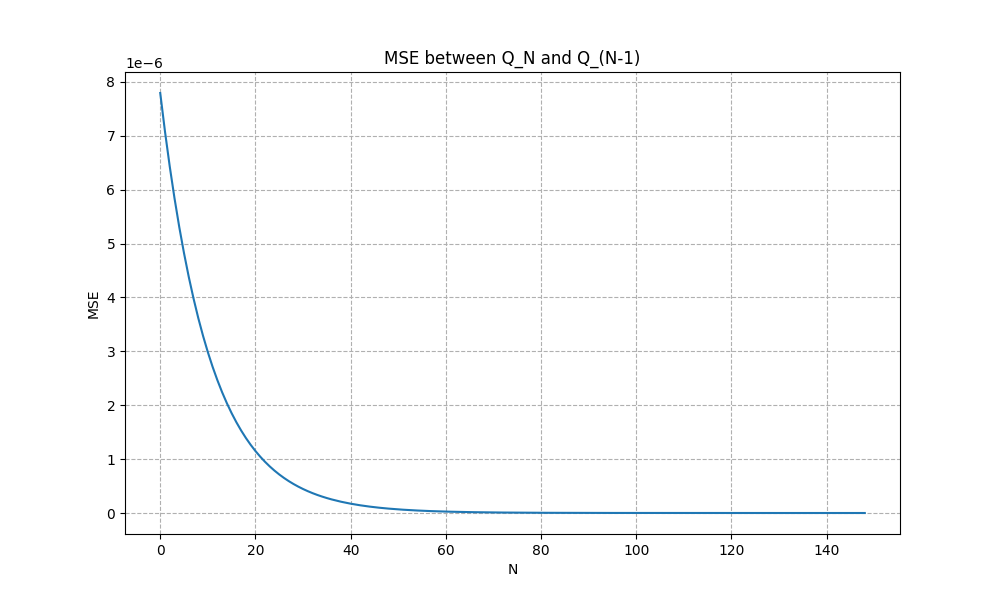
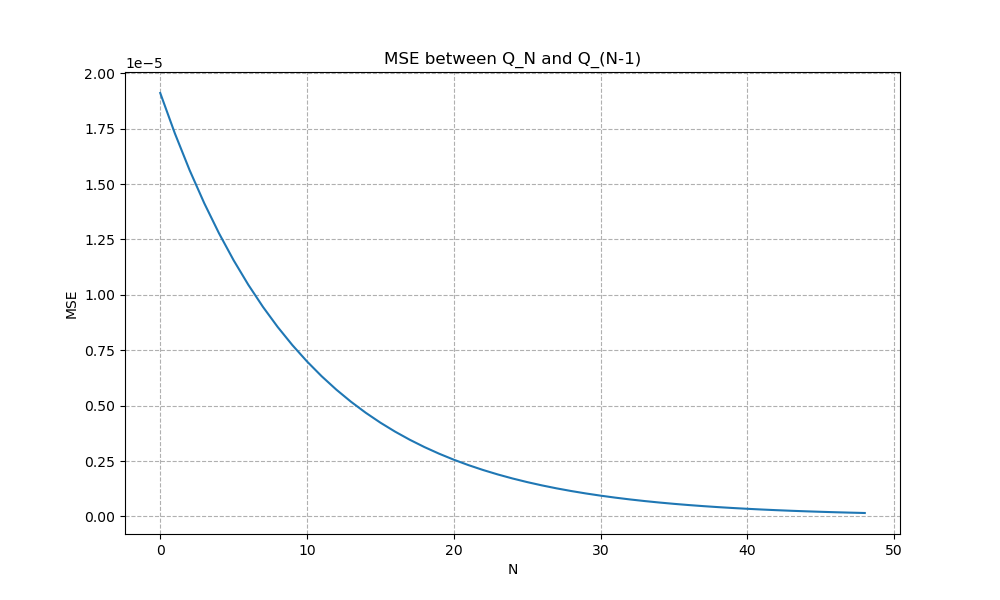
plot policy and expected return section4

diff --git a/src/p2/section4.py b/src/p2/section4.py
@@ -1,6 +1,8 @@
 from section1 import Domain, MomentumAgent
+from section2 import PolicyEstimator
 import numpy as np
 from sklearn.linear_model import LinearRegression
+from sklearn.ensemble import ExtraTreesRegressor
 from sklearn.model_selection import train_test_split
 import matplotlib.pyplot as plt
 
@@ -11,11 +13,17 @@ import pandas as pd
 # 1. 1-step transitions
 # 2. Create an input/output set with 1 step transitions and fitted q from last horizon
 # 3. Train a model on the input/output set
-def fitted_q_iteration(domain, model, n_q, transitions, stopping=0):
+def fitted_q_iteration(domain, alg, n_q, transitions, stopping=0):
     X, y, z = transitions # X -> (p, s, a), y -> r, z -> (p_prime, s_prime)
     z_pos = np.hstack((z, np.full((z.shape[0], 1), 4)))
     z_neg = np.hstack((z, np.full((z.shape[0], 1), -4)))
     error = []
+
+    if alg == 'linear':
+        model = LinearRegression()
+
+    elif alg == 'trees':
+        model = ExtraTreesRegressor(n_estimators= 50, max_features = 2, min_samples_leaf = 2)
 
     model.fit(X, y)
     for _ in range(n_q-1):
@@ -93,11 +101,13 @@ def q_eval(p, s, a, model):
     # Reformatted to create a 2D array suitable for model.predict
     # Stack p, s, and a arrays along the last axis and reshape into (-1, 3) for model input
     psa = np.stack((p, s, np.full(p.shape, a)), axis=-1).reshape(-1, 3)
+    print(psa)
     return model.predict(psa)
 
-def plot_q(model):
-    p_values = np.arange(-1, 1, 0.01)  # Range of values considered for p
-    s_values = np.arange(-3, 3, 0.01)  # Range of values considered for s
+def plot_q(model, options ="", path = "../../figures/project2/section2"):
+    '''Plot the estimation of Q_N'''
+    p_values = np.arange(-1, 1.01, 0.01)  # Range of values considered for p
+    s_values = np.arange(-3, 3.01, 0.01)  # Range of values considered for s
 
     X, Y = np.meshgrid(p_values, s_values)  # Create the grid
 
@@ -113,17 +123,67 @@ def plot_q(model):
         plt.ylabel('s')
         plt.title(f'$\hat{{Q}}_N$ value for action {a}')
         plt.axis('tight')
-        plt.show()  # Show the plot
+        plt.savefig(path+f'/Q_N_action_{a}_{options}.png')   # Save the plot
+
+class OptimalAgent: # do we need another agent specifically for NN or is that ok?
+    def __init__(self, model, alg):
+        self.model = model
+        self.alg = alg # specifies which learning algorithm was used
+
+    def get_action(self, state):
+        p, s = state
+        if self.alg == 'nn':
+            return 0 # what do we do in neural net case
+        else:
+            if model.predict(np.array([(p,s,4)])) > model.predict(np.array([(p,s,-4)])):
+                return 4
+            else:
+                return -4
+            
+def plot_policy(agent, res, options = "", path="../../figures/project2/section2"):
+    '''Plot an agent's policy using a given resolution'''
+    p_values = np.arange(-1, 1 + res, res)
+    s_values = np.arange(-3, 3 + res, res)
+
+    policy_grid = np.empty((len(p_values), len(s_values)))
+
+    for i in range(len(p_values)):
+        for j in range(len(s_values)):
+            policy_grid[i,j] = agent.get_action((p_values[i],s_values[j]))
+
+    indices_pos = np.argwhere(policy_grid == 4)
+    indices_neg = np.argwhere(policy_grid == -4)
+
+    plt.scatter((indices_pos[:, 0] - len(p_values)/2)*res, (indices_pos[:, 1] - len(s_values)/2)*res, color='blue', label='4')
+    plt.scatter((indices_neg[:, 0] - len(p_values)/2)*res, (indices_neg[:, 1] - len(s_values)/2)*res, color='red', label='-4')
+
+    plt.xlabel('p')
+    plt.ylabel('s')
+
+    plt.xlim(-1,1)
+    plt.ylim(-3,3)
+
+    plt.legend()
+
+    plt.grid(True) # Not sure the grid makes sense
+    
+    # options should be more specific: learning algorithm, stopping criterion, trajectory used    
+    plt.savefig(path+f'/est_opt_policy_{options}.png') 
 
 if __name__ == "__main__":
-    
-    X, y, z = get_set(mode='episodic', n_iter=int(1000))
+    domain = Domain() # need to make sure that by putting it here, we don't miss a domain reset anywhere
 
-    domain = Domain()
-    model = LinearRegression()
+    # all_traj = ['randn', 'episodic']
+    # all_alg = ['linear', 'trees', 'nn']
+    # all_stop = [0, 1]
 
-    N = 150
-    model, error = fitted_q_iteration(domain, model, N, (X, y, z))
+    traj = 'randn' # need to use a for loop
+    X, y, z = get_set(mode=traj, n_iter=int(1000))
+
+    N = 50 # might change if we change stopping criterion
+    alg = 'linear' # need to use a for loop
+    stop = 0 # need to use a for loop
+    model, error = fitted_q_iteration(domain, alg, N, (X, y, z), stopping = stop)
 
     plt.figure(figsize=(10, 6))
     plt.plot(np.arange(len(error)), error)
@@ -133,7 +193,34 @@ if __name__ == "__main__":
     plt.grid(True, which="both", ls="--")
     plt.savefig('mse.png')
 
+    options = alg + '_' + traj + '_' + 'stop' + str(stop)
+    plot_q(model, options=options)
 
-    plot_q(model)
+    # once we have final model
+    opt_agent = OptimalAgent(model, alg = 'linear')
+
+    res = 0.01 # resolution for the plot
+    plot_policy(opt_agent, res, options = options)
+
+    # Estimating the return of the policy:
+    policy_est = PolicyEstimator(domain, opt_agent)
+
+    n_initials = 50 # Number of initial states
+    N = 5000 # Horizon
+
+    # In this case, wouldn't it be more interesting to have a single plot with the 
+    # estimated expected return (averaged over all initial states basically) of all models obtained?
+
+    # if we just do one plot per model:
+    all_returns = policy_est.policy_return(N, n_initials) # Get all the estimated expected returns
+
+    policy_est.plot_return(all_returns, filename="_"+options) # Plot the returns for the 50 initial states
+
+    # If we want to do one plot for all models, can just store for each model:
+    evol_avg_return = np.mean(all_returns, axis = 0) # Then can just adapt the policy_est.plot_return function very easily
+
+    print(f'Estimated expected return of policy {options}: {np.mean(all_returns[:,-1])}') # Print the average so that we also have it numerically
+
+
 
 

diff --git a/src/p2/section2.py b/src/p2/section2.py
@@ -26,7 +26,7 @@ class PolicyEstimator:
 
         return est_return
     
-    def plot_return(self, all_returns, path="../../figures/project2/section2"):
+    def plot_return(self, all_returns, filename = "", path="../../figures/project2/section2"):
         """Plot the evolution of the estimated expected return against horizon N."""
         
         n_initials = all_returns.shape[0]
@@ -43,7 +43,7 @@ class PolicyEstimator:
         plt.legend()
         plt.grid(True, which="both", ls="--")
         
-        plt.savefig(path+f'/conv_exp_return.png')
+        plt.savefig(path+f'/conv_exp_return{filename}.png')
 
 
 if __name__ == "__main__":
